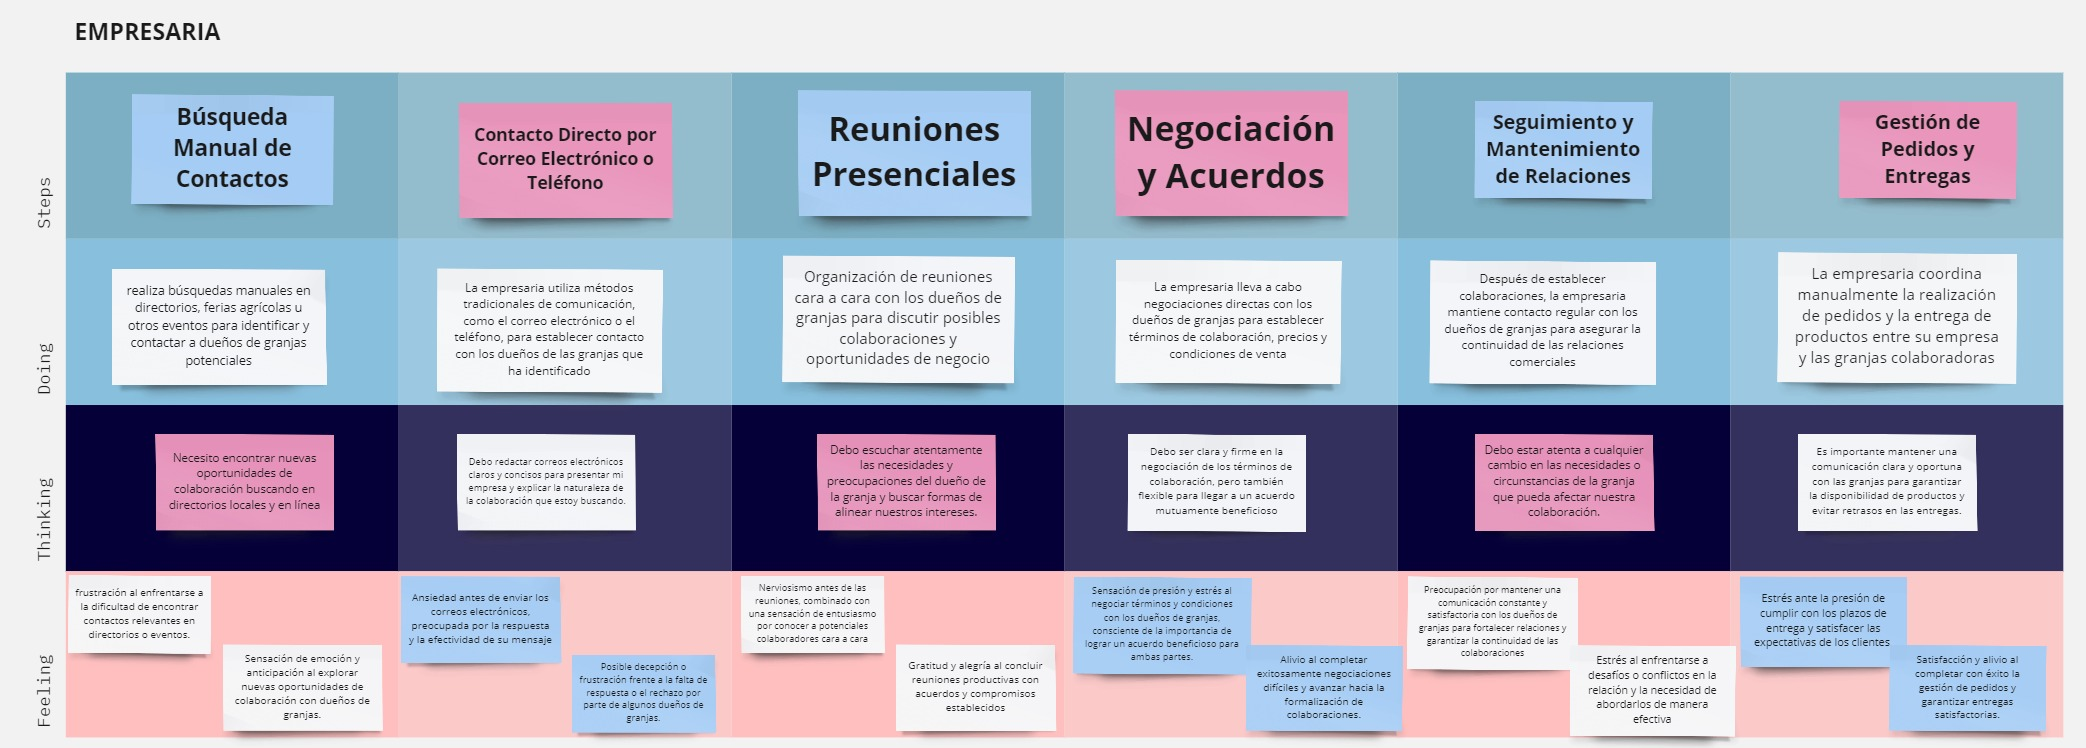
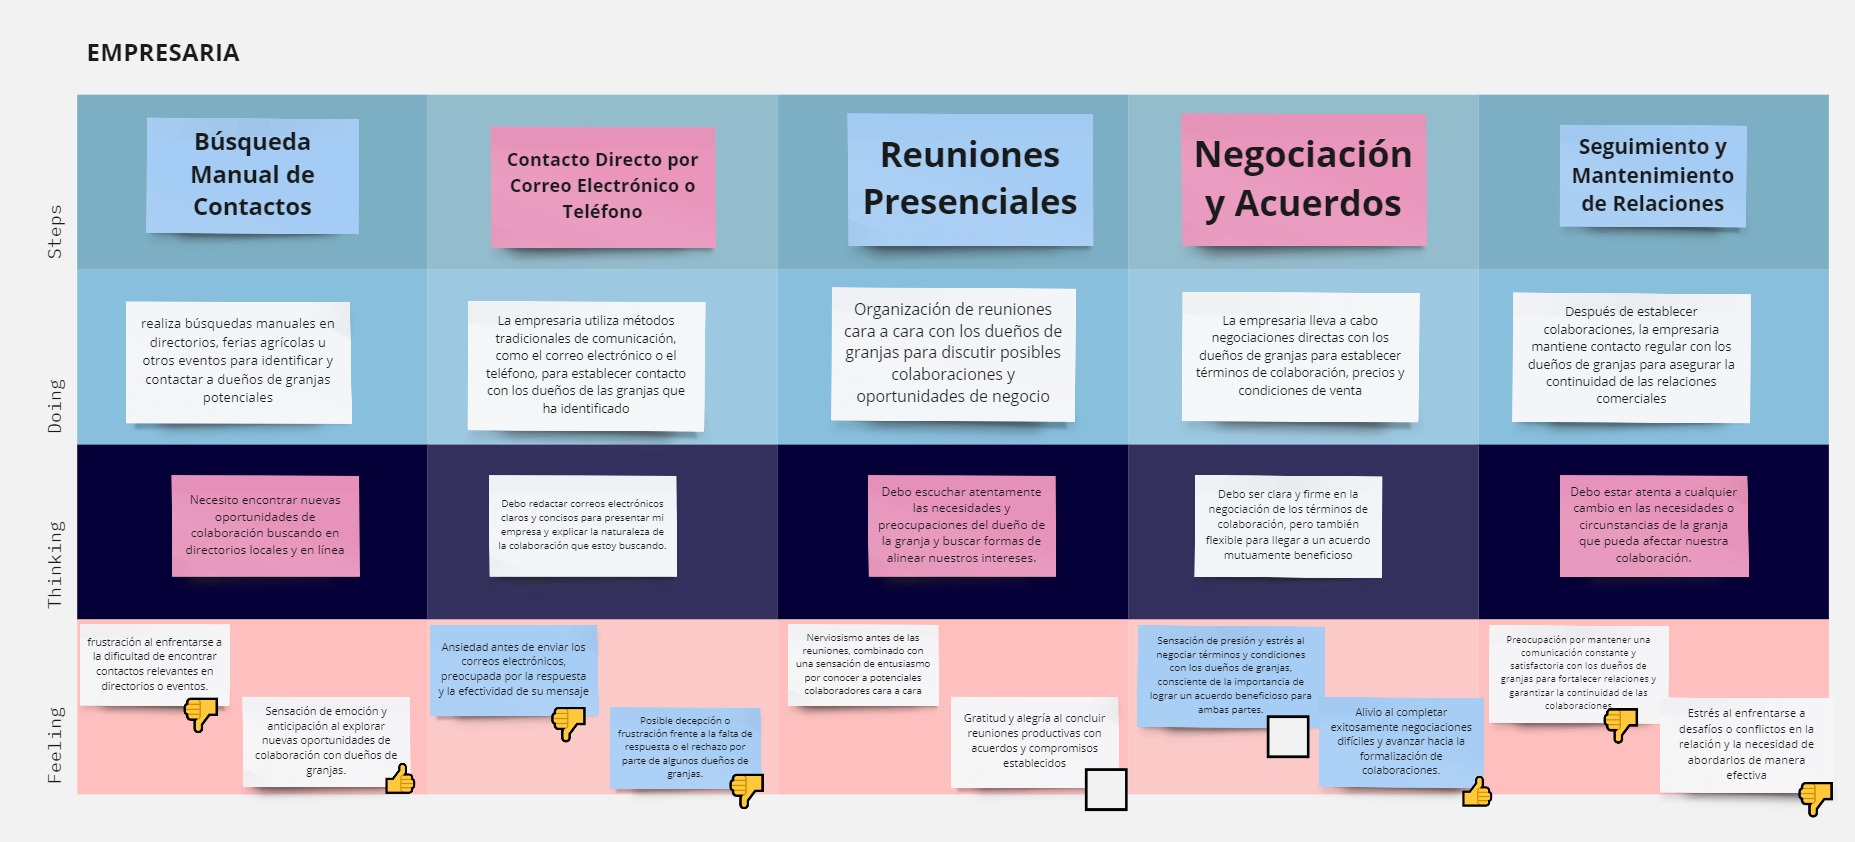
docs: correction of as-is mapping, also i change the image links

diff --git a/Reporte/Capitulo2/capitulo2.md b/Reporte/Capitulo2/capitulo2.md
@@ -238,11 +238,11 @@ El User Journey Mapping empieza desde el momento en el que los user personas obs
 investigar las soluciones de estas pasando por el proceso de encontrar alguna posible solución para finalmente dejar de 
 hacer uso de esta.
 - User Journey Mapping trabajador en granja
-  ![Imagen de UserJourney1](https://i.postimg.cc/tTKBsfdJ/Customer-journey-map-Juann.png)
+  ![Imagen de UserJourney1](https://i.postimg.cc/wM2m3Cp1/Customer-journey-map-Juann.png)
 - User Journey Mapping dueño de granja
-  ![Imagen de UserJourney2](https://i.postimg.cc/SsWLjKg2/Customer-journey-map-Piero.png)
+  ![Imagen de UserJourney2](https://i.postimg.cc/vHPnywhj/Customer-journey-map-Piero.png)
 - User Journey Mapping empresaria
-  ![Imagen de UserJourney3](https://i.postimg.cc/tRYmRdj8/Customer-journey-map-Maria.png)
+  ![Imagen de UserJourney3](https://i.postimg.cc/G3xYMyyb/Customer-journey-map-Maria.png)
 
 ### 2.3.4 Empathy Mapping
 A continuación se pueden apreciar los Empathy Mapping de los segmentos objetivos.
@@ -250,20 +250,21 @@ Para la creación de estos se identifico a los segmentos objetivos y se realizo 
 lluvia de ideas para identificar sus necesidades, deseos, pensamientos, sentimientos, etc.
 Por otro lado, se tuvo en cuenta el contexto específico de cada usuario, como sus roles, responsabilidades y objetivos dentro del entorno agrícola.
 - User Empathy Mapping trabajador en granja
-  ![Imagen de EmpathyMapping1](https://i.postimg.cc/Hxw80nyb/Empathy-Map-Trabajador.jpg)
+  ![Imagen de EmpathyMapping1](https://i.postimg.cc/kXVJVr9L/Empathy-Map-Trabajador.png)
 - User Empathy Mapping dueño de granja
-  ![Imagen de EmpathyMapping2](https://i.postimg.cc/QCj9fDQw/Empathy-Map-Granjero.jpg)
+  ![Imagen de EmpathyMapping2](https://i.postimg.cc/NGCGfGh1/Empathy-Map-Granjero.png)
 - User Empathy Mapping empresaria
-  ![Imagen de EmpathyMapping3](https://i.postimg.cc/j50JJPLs/Empathy-Map-Empresaria.jpg)
-Enlace de Miro: https://miro.com/app/board/uXjVKYifYmY=/?share_link_id=198034930149
+  ![Imagen de EmpathyMapping3](https://i.postimg.cc/rss8C340/Empathy-Map-Empresaria.png)
 ### 2.3.5 As-Is Scenario Mapping
-A continuación se pueden apreciar los As-Is Scenario de los segmentos objetivos.
+El As-Is Scenario nos permite comprender a fondo cómo funcionan actualmente las operaciones en las granjas antes de implementar 
+cambios o nuevas estrategias. Es decir, proporciona una base sólida para identificar áreas de mejora y optimización en las 
+operaciones de nuestros user persona. A continuación se pueden apreciar los As-Is Scenario de los segmentos objetivos.
 - User As-Is Scenario trabajador en granja
-  ![Imagen de As-Is1](https://i.postimg.cc/B6j4sVqb/Scenario-Mapping-Trabajador.jpg)
+  ![Imagen de As-Is1](https://i.postimg.cc/DZMVFZW0/Scenario-Mapping-Trabajador.jpg)
 - User As-Is Scenario dueño de granja
-  ![Imagen de As-Is2](https://i.postimg.cc/Zq74GSzX/Scenario-Mapping-Granjero.jpg)
+  ![Imagen de As-Is2](https://i.postimg.cc/sXXFtSgb/Scenario-Mapping-Granjero.jpg)
 - User As-Is Scenario empresaria
-  ![Imagen de As-Is3](https://i.postimg.cc/tgC9vgwh/Scenario-Mapping-Empresaria.jpg)
+  ![Imagen de As-Is3](https://i.postimg.cc/MGzJmg26/Scenario-Mapping-Empresaria.jpg)
   Enlace de Miro: https://miro.com/app/board/uXjVKYvs29U=/?share_link_id=40902593860 
 ## 2.4 Ubiquitous Language
 - **Plataforma**: Representación de un sistema digital
